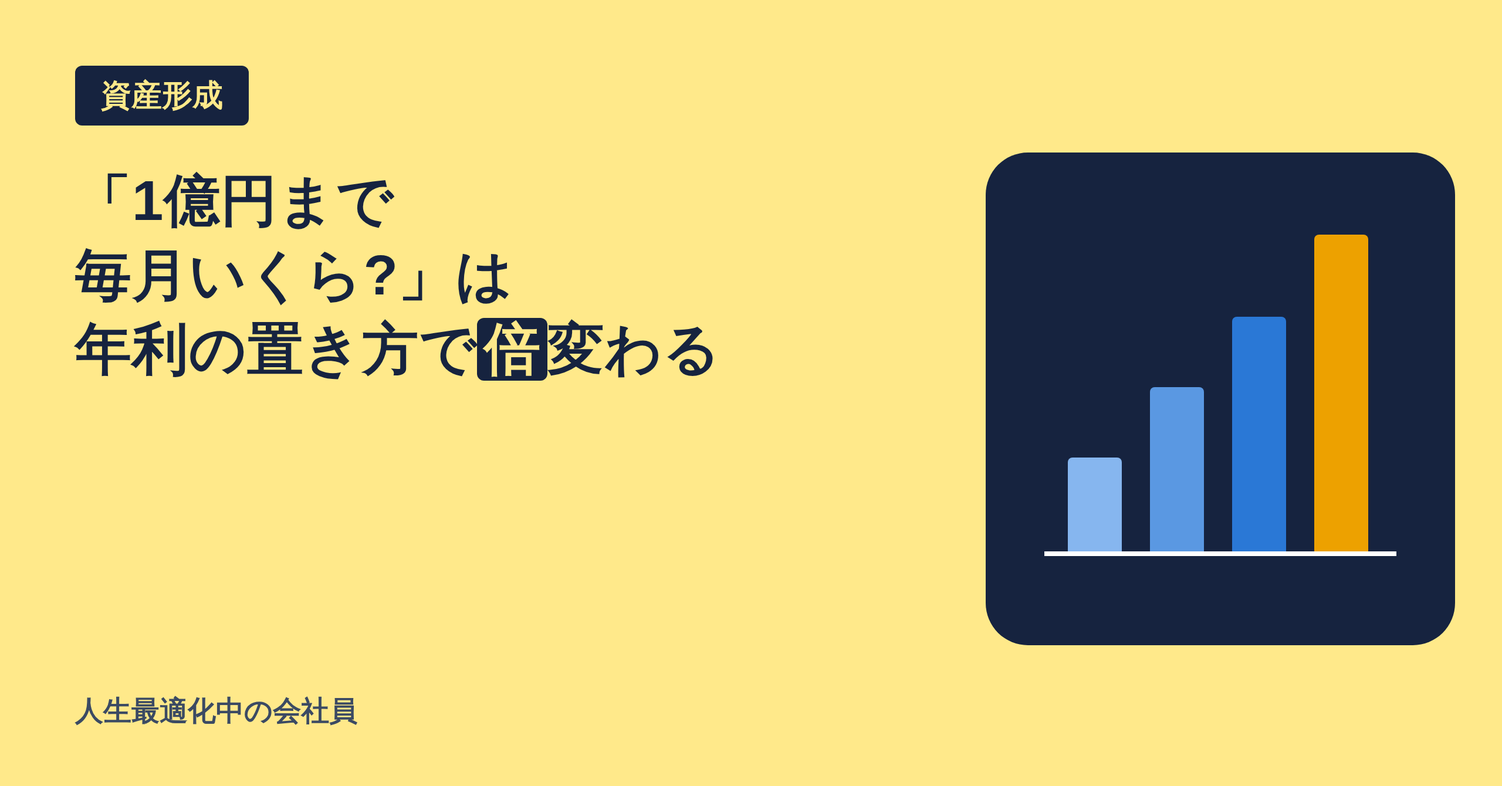
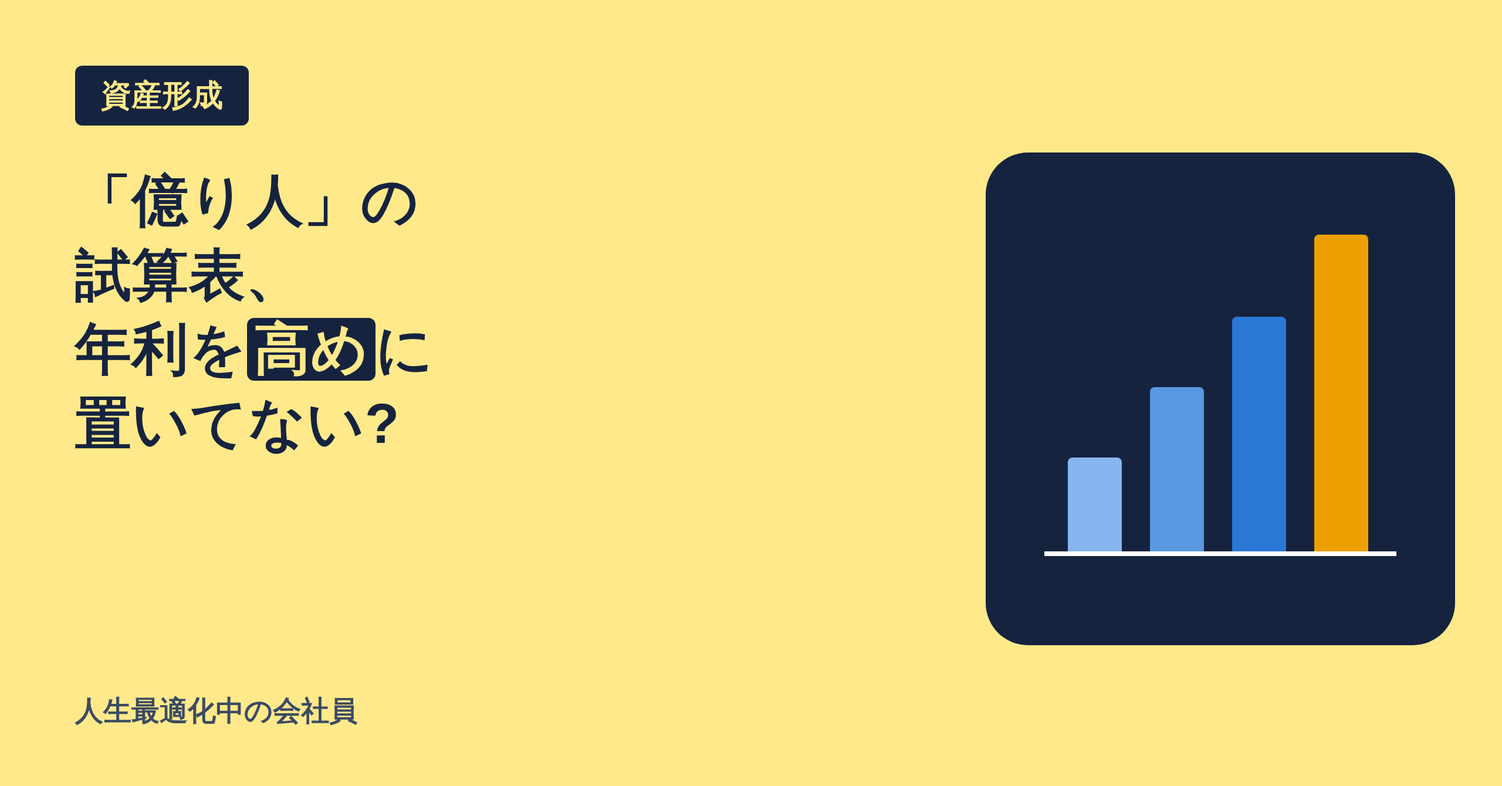
Approval 2 for 2026-11-04_001 (owner approved; title with 億り人); export note post
Claude-Session: https://claude.ai/code/session_019jxzMkHZEL8EPC28xkVZW1

Changed region(s): [[0.0312, 0.2142, 0.4688, 0.5813]]

diff --git a/runs/2026-11-04_001/READY_TO_PUBLISH.md b/runs/2026-11-04_001/READY_TO_PUBLISH.md
@@ -1,0 +1,102 @@
+# 「億り人」の試算表、年利を高めに置いてない?
+
+【画像:cover.png】
+
+こんにちは、人生最適化中の会社員です。今日は、1億円までの道のりを、段ごとに一緒に整理します。
+
+「1億円って、毎月いくら積み立てればいいんだろう」。ネットで試算表を見て、数字だけメモして、そのまま画面を閉じる。そんな人もいると思います。資産1億円を超えた人を「億り人」と呼ぶことがあります。
+
+たとえば年利5%と仮に置くと、1億円になる計算にするには、30年で毎月約12万円、20年で毎月約24万円。10年の差で、倍になります。
+
+## 結論:毎月の額は、年数と「仮の年利」で大きく変わる
+
+1億円になる計算にするための毎月の額は、積み立てる年数で、倍近く変わります。
+
+年利(1年で増える割合)を仮に3%とします。20年なら毎月約30.5万円、30年なら約17.2万円で、約1.8倍です。年利が5%なら約24.3万円と約12.0万円で約2.0倍、7%なら約19.2万円と約8.2万円で約2.3倍になります。
+
+もう1つ大事なのは、NISAの非課税の枠と、1億円との関係です。1億円を目指す積立は、払い込む額だけでも、NISAの生涯の枠(1,800万円)を超えます。超えた分は、課税口座での運用になります。
+
+この記事は、個人が調べた一般的な情報で、助言ではありません。投資には元本保証がなく、元本割れのおそれがあります。
+
+6つの段で整理します。
+
+【画像:fig2_roadmap.png】
+
+## 段0:今の位置を知る
+
+総務省の令和6年全国家計構造調査(2024年10月末時点)では、1世帯あたりの金融資産(預貯金や有価証券など)の平均は1527.2万円でした。1億円は、その約6.5倍です(1億円÷1527.2万円の計算)。
+
+この平均には、金融資産を持っていない世帯も含まれます。中央値(全世帯を金額順に並べたときの真ん中の値)は、持っていない世帯も含めると600万円(参考値)、持っている世帯だけだと728万円です。150万円未満の世帯は25.7%あります。平均は、大きな資産をもつ一部の世帯に引っ張られる、と同調査でも説明されています。
+
+## 段1:守りのお金を決める
+
+生活防衛資金は、急な出費や収入の減少に備えて、すぐ引き出せる形で置いておくお金です。
+
+ここは人によって違い、公式に決まった数字はありません。決め方の例は、毎月の支出を数えて、その何か月分を手元に置くかを自分で決めることです。投資に回すのは、そのあとになります。
+
+## 段2:使える制度の箱
+
+NISAは、運用で出た利益に税金がかからない国の制度です。金融庁によると、年間の投資枠はつみたて投資枠120万円と成長投資枠240万円で、合わせて年360万円。生涯の非課税保有限度額は1,800万円で、買った金額の合計で数えます(売ると、売った商品の買った金額ぶんの枠は、翌年以降にまた使えます。この記事の計算は、売らずに持ち続ける前提です)。成長投資枠(1,200万円まで)は、この1,800万円の中の枠です。併用しても、生涯の上限は増えません。非課税で持てる期間は無期限です。
+
+iDeCo(イデコ。自分で掛金を出して積み立てる、老後のための私的年金)は、厚生労働省によると、掛金が全額所得控除(その分、税の計算のもとになる所得が減る仕組み)になり、運用中の利益には税がかかりません。運用商品は自分で選びます。原則60歳になるまで受け取れない点には注意が必要です。令和8年12月から、会社員の掛金の上限は月6万2000円になります(企業年金がある人は、企業年金と合わせて)。70歳になるまで加入できるようにもなります。
+
+枠に入らない分は、課税口座での運用です。国税庁によると、上場株式などの売却益にかかる税は、所得税15%と住民税5%の合計20%に、復興特別所得税が加わります。
+
+## 段3:積立額を、年数と仮の年利で決める
+
+1億円を目標にして、毎月いくら積み立てる必要があるかを、年利と年数を変えて計算しました。
+
+【画像:fig1_table.png】
+
+前提は、毎月末に同じ額を積み立て、月の利回りは年利÷12、税と手数料は考えない、というものです。3%・5%・7%は、計算の区切りとして置いた数字で、予想ではありません。0%は、増えも減りもしない場合です。増えた分にも次の運用がつく効果(複利)を入れた計算で、金融庁も長期投資では「複利の効果が大きくなる」と説明しています。年数が長いほど差が開くのは、この効果が積み重なるからです。
+
+表から分かることは3つです。
+
+1つ目は、年数の差です。20年から30年に延ばすと、必要な毎月の額は、3%・5%・7%で約1.8倍・約2.0倍・約2.3倍の差になります。
+
+2つ目は、年利の置き方の差です。同じ30年でも、3%なら約17.2万円、7%なら約8.2万円で、約2倍の差です。その年利は、誰にも約束できません。
+
+3つ目は、NISAの枠との関係です。5%・30年の例では、払い込む総額が約4,330万円。NISAの生涯の枠1,800万円を超える約2,530万円分(4,330万−1,800万の計算)は、課税口座での運用になります。毎月10万円なら、15年で払い込みが1,800万円になり、枠がいっぱいになります。30年続けると払い込みは3,600万円で、半分は枠の外です。この月10万円を30年の将来額は、3%で約5,830万円、5%で約8,320万円、7%で約1億2,200万円です。3%では1億円に届きません。
+
+税を考えると、必要額はさらに増えます。全額を課税口座で運用し、最後に全部売った場合の単純な計算で、利益に20.315%の税(20%+復興特別所得税の計算値)がかかるとすると、5%・30年では毎月約12.0万円が約13.6万円になります。
+
+自分の数字で試したいときは、金融庁の「つみたてシミュレーター」が使えます。入れるのは、毎月の積立金額、想定利回り(年率)、積立期間の3つです。同じ画面には「将来の結果を予測し、保証するものではありません」と書かれています。金融庁は、株式や投資信託などに投資すると預貯金より高いリターンを期待できる一方で「元本割れのおそれもあります」とも説明しています。
+
+## 段4・5:収入と、取り崩し
+
+段4は収入です。積立額を増やす前に、毎月の収入と支出を1枚に書き出してみてください。増やせる額が、自分の数字で見えてきます。
+
+段5は取り崩しです。iDeCoは、受け取り方に年金と一時金があり、年金なら公的年金等控除、一時金なら退職所得控除が使えます。NISAは非課税で持てる期間が無期限なので、急いで売る必要がある仕組みではありません。何%ずつ取り崩すかは、使う時期や年金と合わせて決めることで、公式に決まった数字はありません。決め方の例は、老後の毎月の支出と公的年金の見込み額を並べて、足りない分を数えることです。
+
+## つまずきやすいところ(読者のあるある)
+
+- 年利は高めに置いたほうが、目標に近づいて見える。つい7%に合わせたくなる、という人もいるかもしれません。
+- 1億円の数字ばかり見て、続けられる額を考えないまま、大きめの積立額を決めてしまう。そんな人もいると思います。
+
+必要額は月8.2万〜30.5万円なので、「自分には無理」と感じる人もいるでしょう。続けやすい額から逆算してみます。同じ前提で、毎月5万円を30年続けた場合は、3%で約2,910万円、5%で約4,160万円、7%で約6,100万円です。1億円とは差があっても、続けやすい額で、どこまで行けるかは見えます。
+
+また、30年後の1億円は、物の値段が変われば、今の1億円と同じ価値とは限りません。
+
+続けられる額と年数を先に決めて、年利を低め・高めの2通りで見ておくのが、無理のない使い方です。
+
+## まとめ:シミュレーターに、2通り入れてみる
+
+- 1億円になる計算にするための毎月の額は、年数で倍近く(3%で約1.8倍、5%で約2.0倍、7%で約2.3倍)変わる
+- 同じ30年でも、仮の年利が3%か7%かで約2倍の差がある。年利は約束できない
+- NISAの生涯の枠は1,800万円。1億円を目指す積立は、払い込みだけで枠を超える
+- 生活防衛資金と取り崩しは、人によって違う。自分の支出から数えて決める
+
+次にやることは1つだけです。金融庁のつみたてシミュレーターに、今の積立額と、低めの年利・高めの年利の2通りを入れて、差を一度だけ見てみてください。
+
+この記事は、個人が調べた一般的な情報で、助言ではありません。特定の金融商品をすすめるものでもありません。投資には元本割れのおそれがあり、結果の保証はありません。判断は自分で行い、必要に応じて専門家や公的機関に相談してください。
+
+最後まで読んでくれて、ありがとうございます。
+
+## 情報源
+- https://www.stat.go.jp/data/zenkokukakei/2024/pdf/youyaku0828.pdf(総務省統計局 令和6年全国家計構造調査 結果の要約、2026-08-28公表、取得日2026-11-04)
+- https://www.fsa.go.jp/policy/nisa2/about/index.html(金融庁 新NISAの説明、取得日2026-11-04)
+- https://www.fsa.go.jp/policy/nisa2/invest/(金融庁 資産形成の基本、取得日2026-11-04)
+- https://www.fsa.go.jp/policy/nisa2/tsumitate-simulator/(金融庁 つみたてシミュレーター、取得日2026-11-04)
+- https://www.mhlw.go.jp/stf/seisakunitsuite/bunya/nenkin/kyoshutsu/ideco.html(厚生労働省 iDeCoの概要、取得日2026-11-04)
+- https://www.mhlw.go.jp/content/12500000/001620594.pdf(厚生労働省 iDeCo令和8年12月からの改正リーフレット、取得日2026-11-04)
+- https://www.nta.go.jp/taxes/shiraberu/taxanswer/shotoku/1463.htm(国税庁 No.1463 株式等を譲渡したときの課税、令和8年4月1日現在、取得日2026-11-04)

diff --git a/runs/2026-11-04_001/note_post/body.md b/runs/2026-11-04_001/note_post/body.md
@@ -1,0 +1,100 @@
+【画像:cover.png】
+
+こんにちは、人生最適化中の会社員です。今日は、1億円までの道のりを、段ごとに一緒に整理します。
+
+「1億円って、毎月いくら積み立てればいいんだろう」。ネットで試算表を見て、数字だけメモして、そのまま画面を閉じる。そんな人もいると思います。資産1億円を超えた人を「億り人」と呼ぶことがあります。
+
+たとえば年利5%と仮に置くと、1億円になる計算にするには、30年で毎月約12万円、20年で毎月約24万円。10年の差で、倍になります。
+
+## 結論:毎月の額は、年数と「仮の年利」で大きく変わる
+
+1億円になる計算にするための毎月の額は、積み立てる年数で、倍近く変わります。
+
+年利(1年で増える割合)を仮に3%とします。20年なら毎月約30.5万円、30年なら約17.2万円で、約1.8倍です。年利が5%なら約24.3万円と約12.0万円で約2.0倍、7%なら約19.2万円と約8.2万円で約2.3倍になります。
+
+もう1つ大事なのは、NISAの非課税の枠と、1億円との関係です。1億円を目指す積立は、払い込む額だけでも、NISAの生涯の枠(1,800万円)を超えます。超えた分は、課税口座での運用になります。
+
+この記事は、個人が調べた一般的な情報で、助言ではありません。投資には元本保証がなく、元本割れのおそれがあります。
+
+6つの段で整理します。
+
+【画像:fig2_roadmap.png】
+
+## 段0:今の位置を知る
+
+総務省の令和6年全国家計構造調査(2024年10月末時点)では、1世帯あたりの金融資産(預貯金や有価証券など)の平均は1527.2万円でした。1億円は、その約6.5倍です(1億円÷1527.2万円の計算)。
+
+この平均には、金融資産を持っていない世帯も含まれます。中央値(全世帯を金額順に並べたときの真ん中の値)は、持っていない世帯も含めると600万円(参考値)、持っている世帯だけだと728万円です。150万円未満の世帯は25.7%あります。平均は、大きな資産をもつ一部の世帯に引っ張られる、と同調査でも説明されています。
+
+## 段1:守りのお金を決める
+
+生活防衛資金は、急な出費や収入の減少に備えて、すぐ引き出せる形で置いておくお金です。
+
+ここは人によって違い、公式に決まった数字はありません。決め方の例は、毎月の支出を数えて、その何か月分を手元に置くかを自分で決めることです。投資に回すのは、そのあとになります。
+
+## 段2:使える制度の箱
+
+NISAは、運用で出た利益に税金がかからない国の制度です。金融庁によると、年間の投資枠はつみたて投資枠120万円と成長投資枠240万円で、合わせて年360万円。生涯の非課税保有限度額は1,800万円で、買った金額の合計で数えます(売ると、売った商品の買った金額ぶんの枠は、翌年以降にまた使えます。この記事の計算は、売らずに持ち続ける前提です)。成長投資枠(1,200万円まで)は、この1,800万円の中の枠です。併用しても、生涯の上限は増えません。非課税で持てる期間は無期限です。
+
+iDeCo(イデコ。自分で掛金を出して積み立てる、老後のための私的年金)は、厚生労働省によると、掛金が全額所得控除(その分、税の計算のもとになる所得が減る仕組み)になり、運用中の利益には税がかかりません。運用商品は自分で選びます。原則60歳になるまで受け取れない点には注意が必要です。令和8年12月から、会社員の掛金の上限は月6万2000円になります(企業年金がある人は、企業年金と合わせて)。70歳になるまで加入できるようにもなります。
+
+枠に入らない分は、課税口座での運用です。国税庁によると、上場株式などの売却益にかかる税は、所得税15%と住民税5%の合計20%に、復興特別所得税が加わります。
+
+## 段3:積立額を、年数と仮の年利で決める
+
+1億円を目標にして、毎月いくら積み立てる必要があるかを、年利と年数を変えて計算しました。
+
+【画像:fig1_table.png】
+
+前提は、毎月末に同じ額を積み立て、月の利回りは年利÷12、税と手数料は考えない、というものです。3%・5%・7%は、計算の区切りとして置いた数字で、予想ではありません。0%は、増えも減りもしない場合です。増えた分にも次の運用がつく効果(複利)を入れた計算で、金融庁も長期投資では「複利の効果が大きくなる」と説明しています。年数が長いほど差が開くのは、この効果が積み重なるからです。
+
+表から分かることは3つです。
+
+1つ目は、年数の差です。20年から30年に延ばすと、必要な毎月の額は、3%・5%・7%で約1.8倍・約2.0倍・約2.3倍の差になります。
+
+2つ目は、年利の置き方の差です。同じ30年でも、3%なら約17.2万円、7%なら約8.2万円で、約2倍の差です。その年利は、誰にも約束できません。
+
+3つ目は、NISAの枠との関係です。5%・30年の例では、払い込む総額が約4,330万円。NISAの生涯の枠1,800万円を超える約2,530万円分(4,330万−1,800万の計算)は、課税口座での運用になります。毎月10万円なら、15年で払い込みが1,800万円になり、枠がいっぱいになります。30年続けると払い込みは3,600万円で、半分は枠の外です。この月10万円を30年の将来額は、3%で約5,830万円、5%で約8,320万円、7%で約1億2,200万円です。3%では1億円に届きません。
+
+税を考えると、必要額はさらに増えます。全額を課税口座で運用し、最後に全部売った場合の単純な計算で、利益に20.315%の税(20%+復興特別所得税の計算値)がかかるとすると、5%・30年では毎月約12.0万円が約13.6万円になります。
+
+自分の数字で試したいときは、金融庁の「つみたてシミュレーター」が使えます。入れるのは、毎月の積立金額、想定利回り(年率)、積立期間の3つです。同じ画面には「将来の結果を予測し、保証するものではありません」と書かれています。金融庁は、株式や投資信託などに投資すると預貯金より高いリターンを期待できる一方で「元本割れのおそれもあります」とも説明しています。
+
+## 段4・5:収入と、取り崩し
+
+段4は収入です。積立額を増やす前に、毎月の収入と支出を1枚に書き出してみてください。増やせる額が、自分の数字で見えてきます。
+
+段5は取り崩しです。iDeCoは、受け取り方に年金と一時金があり、年金なら公的年金等控除、一時金なら退職所得控除が使えます。NISAは非課税で持てる期間が無期限なので、急いで売る必要がある仕組みではありません。何%ずつ取り崩すかは、使う時期や年金と合わせて決めることで、公式に決まった数字はありません。決め方の例は、老後の毎月の支出と公的年金の見込み額を並べて、足りない分を数えることです。
+
+## つまずきやすいところ(読者のあるある)
+
+- 年利は高めに置いたほうが、目標に近づいて見える。つい7%に合わせたくなる、という人もいるかもしれません。
+- 1億円の数字ばかり見て、続けられる額を考えないまま、大きめの積立額を決めてしまう。そんな人もいると思います。
+
+必要額は月8.2万〜30.5万円なので、「自分には無理」と感じる人もいるでしょう。続けやすい額から逆算してみます。同じ前提で、毎月5万円を30年続けた場合は、3%で約2,910万円、5%で約4,160万円、7%で約6,100万円です。1億円とは差があっても、続けやすい額で、どこまで行けるかは見えます。
+
+また、30年後の1億円は、物の値段が変われば、今の1億円と同じ価値とは限りません。
+
+続けられる額と年数を先に決めて、年利を低め・高めの2通りで見ておくのが、無理のない使い方です。
+
+## まとめ:シミュレーターに、2通り入れてみる
+
+- 1億円になる計算にするための毎月の額は、年数で倍近く(3%で約1.8倍、5%で約2.0倍、7%で約2.3倍)変わる
+- 同じ30年でも、仮の年利が3%か7%かで約2倍の差がある。年利は約束できない
+- NISAの生涯の枠は1,800万円。1億円を目指す積立は、払い込みだけで枠を超える
+- 生活防衛資金と取り崩しは、人によって違う。自分の支出から数えて決める
+
+次にやることは1つだけです。金融庁のつみたてシミュレーターに、今の積立額と、低めの年利・高めの年利の2通りを入れて、差を一度だけ見てみてください。
+
+この記事は、個人が調べた一般的な情報で、助言ではありません。特定の金融商品をすすめるものでもありません。投資には元本割れのおそれがあり、結果の保証はありません。判断は自分で行い、必要に応じて専門家や公的機関に相談してください。
+
+最後まで読んでくれて、ありがとうございます。
+
+## 情報源
+- https://www.stat.go.jp/data/zenkokukakei/2024/pdf/youyaku0828.pdf(総務省統計局 令和6年全国家計構造調査 結果の要約、2026-08-28公表、取得日2026-11-04)
+- https://www.fsa.go.jp/policy/nisa2/about/index.html(金融庁 新NISAの説明、取得日2026-11-04)
+- https://www.fsa.go.jp/policy/nisa2/invest/(金融庁 資産形成の基本、取得日2026-11-04)
+- https://www.fsa.go.jp/policy/nisa2/tsumitate-simulator/(金融庁 つみたてシミュレーター、取得日2026-11-04)
+- https://www.mhlw.go.jp/stf/seisakunitsuite/bunya/nenkin/kyoshutsu/ideco.html(厚生労働省 iDeCoの概要、取得日2026-11-04)
+- https://www.mhlw.go.jp/content/12500000/001620594.pdf(厚生労働省 iDeCo令和8年12月からの改正リーフレット、取得日2026-11-04)
+- https://www.nta.go.jp/taxes/shiraberu/taxanswer/shotoku/1463.htm(国税庁 No.1463 株式等を譲渡したときの課税、令和8年4月1日現在、取得日2026-11-04)

diff --git a/runs/2026-11-04_001/06_sns.md b/runs/2026-11-04_001/06_sns.md
@@ -1,6 +1,6 @@
-# SNS投稿案: 「1億円まで毎月いくら?」は、年利の置き方で倍変わる
+# SNS投稿案: 「億り人」の試算表、年利を高めに置いてない?
 ## X投稿案
-- 「1億円まで毎月いくら?」は、年利の置き方で倍変わる。そんな記事を書きました。20年と30年では、毎月の額が約1.8〜2.3倍違います(年利3〜7%と仮に置いた計算)。年利は予想ではなく、元本割れのおそれもあります。【記事URL】
+- 「億り人」の試算表、年利を高めに置いてない? そんな記事を書きました。20年と30年では、毎月の額が約1.8〜2.3倍違います(年利3〜7%と仮に置いた計算)。年利は予想ではなく、元本割れのおそれもあります。【記事URL】
 - 同じ30年でも、仮の年利が3%なら毎月約17.2万円、7%なら約8.2万円。約2倍の差です。年利は計算の区切りで、保証ではありません。投資には元本割れのおそれがあります。【記事URL】
 - NISAの生涯の非課税枠は1,800万円(金融庁)。1億円を目指す積立は、払い込みだけでこの枠を超えます。5%・30年の仮の計算では、約2,530万円分が課税口座です。投資には元本割れのおそれがあります。【記事URL】
 - 毎月5万円を30年続けた場合の計算は、3%で約2,910万円、5%で約4,160万円、7%で約6,100万円。1億円とは差があります。続けやすい額から見る方法も書きました。仮の年利で、元本割れのおそれがあります。【記事URL】
@@ -32,7 +32,7 @@
 
 ## Instagram投稿案
 カルーセル案(全7枚)
-- 1枚目: 「1億円まで毎月いくら?」は、年利の置き方で倍変わる / 仮の年利で計算してみました
+- 1枚目: 「億り人」の試算表、年利を高めに置いてない? / 仮の年利で計算してみました
 - 2枚目: ネットで試算表を見て、数字だけメモして、画面を閉じる / そんな人もいると思います
 - 3枚目: 同じ30年でも、仮の年利で毎月の額が変わる / 3%なら約17.2万円 / 7%なら約8.2万円 / 約2倍の差(税・手数料は入れていない計算)
 - 4枚目: 20年と30年では、毎月の額が何倍違う? / 年利3%:約1.8倍 / 年利5%:約2.0倍 / 年利7%:約2.3倍

diff --git a/runs/2026-11-04_001/author_notes.md b/runs/2026-11-04_001/author_notes.md
@@ -26,3 +26,6 @@
 - 20.315%は国税庁ページに表記がなく、20%+15%×2.1%の計算値(本文に「計算値」と書いた)。
 - 図(cover, fig1_table, fig2_roadmap)は figures.json を作成済み(make-figures はまだ)。画像を作ったら目視で確認する。
 - 字数の検査は機械で行う。
+
+## 2026-11-04 タイトル決定(持ち主)
+- 持ち主が『億り人を入れる』を選んだ: 「億り人」の試算表、年利を高めに置いてない?(22字)。導入で『億り人』(資産が1億円を超えた人を、投資の世界でこう呼ぶことがある)を説明。本文の核心(年利の置き方で必要な積立額が倍近く変わる)は変えない。

diff --git a/runs/2026-11-04_001/05_revised.md b/runs/2026-11-04_001/05_revised.md
@@ -1,4 +1,4 @@
-# 「1億円まで毎月いくら?」は、年利の置き方で倍変わる
+# 「億り人」の試算表、年利を高めに置いてない?
 
 【画像:cover.png】
 
